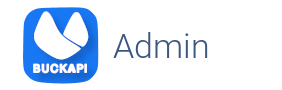
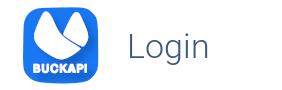
supabase suport

Changed region(s): [[0.3972, 0.3556, 0.6525, 0.7333]]

diff --git a/src/app/guards/auth.guard.ts b/src/app/guards/auth.guard.ts
@@ -1,0 +1,17 @@
+
+import { Injectable } from "@angular/core";
+import { CanActivate, Router } from "@angular/router";
+import { USER_STORAGE_KEY } from "@shared/constants/constant";
+
+@Injectable({ providedIn: 'root' })
+export class AuthGuard implements CanActivate {
+  constructor(private readonly router: Router) { }
+
+  canActivate(): boolean {
+    if (localStorage.getItem(USER_STORAGE_KEY)) {
+      this.router.navigate(['/home']);
+      return false;
+    }
+    return true;
+  }
+}
